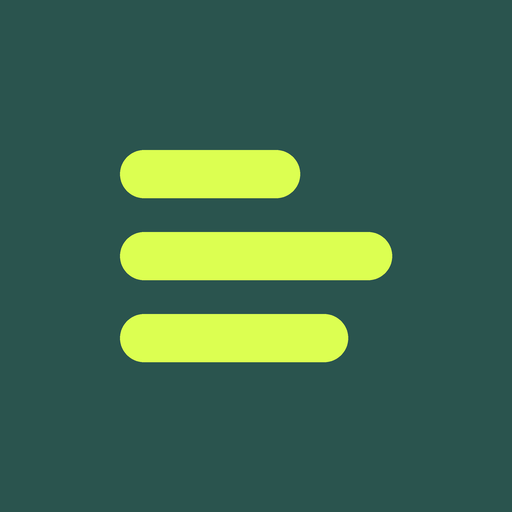
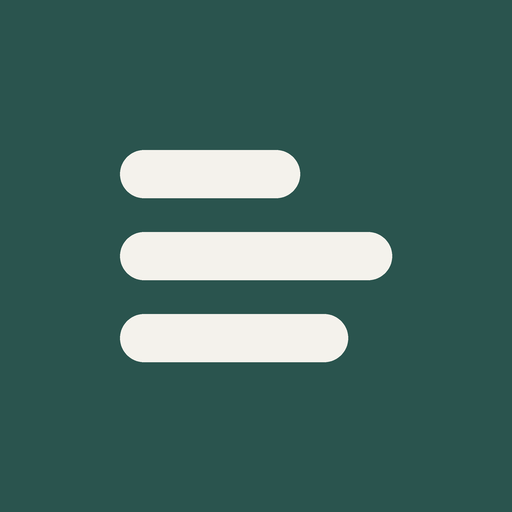
Drop tagline, smaller headlines, grey instead of lime accents

Changed region(s): [[0.2188, 0.4375, 0.7812, 0.5625], [0.2188, 0.5938, 0.6875, 0.7188], [0.2188, 0.2812, 0.5938, 0.4062]]

diff --git a/style.css b/style.css
@@ -22,8 +22,8 @@
   font-weight: 700; font-style: normal; font-display: swap;
 }
 
-/* Colours: newsprint and ink, with the Fairphone 6 Forest Green
-   (#2a544e) and its lime switch accent (#dcff51). */
+/* Colours: newsprint and ink, with the Fairphone 6 Forest Green (#2a544e).
+   Dark mode uses the phone's darker frame green with plain grey accents. */
 :root {
   --paper: #f4f2ec;
   --ink: #16211e;
@@ -31,7 +31,7 @@
   --line: #cfd3cb;
   --rule: #16211e;
   --accent: #2a544e;
-  --on-accent: #dcff51;
+  --on-accent: #f4f2ec;
   --star: #2a544e;
   --star-off: #c8cdc5;
   --bar: rgb(244 242 236 / .9);
@@ -47,9 +47,9 @@
     --muted: #93a29c;
     --line: #2a3d38;
     --rule: #c5ccc4;
-    --accent: #d4f25a;
+    --accent: #c4c9c6;
     --on-accent: #0f1c19;
-    --star: #d4f25a;
+    --star: #c4c9c6;
     --star-off: #344a44;
     --bar: rgb(15 28 25 / .9);
     color-scheme: dark;
@@ -86,7 +86,7 @@ button:disabled { opacity: .2; cursor: default; }
 a { color: inherit; }
 
 /* Small uppercase labels, as in a newspaper. */
-.tagline, .sub, .kind, .open, .author, .weekdays, .pill, .read-toggle {
+.sub, .kind, .open, .author, .weekdays, .pill, .read-toggle {
   text-transform: uppercase;
   letter-spacing: .12em;
 }
@@ -99,16 +99,9 @@ a { color: inherit; }
   padding: calc(18px + env(safe-area-inset-top)) 16px 0;
   text-align: center;
 }
-.tagline {
-  margin: 0;
-  padding-bottom: 8px;
-  border-bottom: 1px solid var(--rule);
-  font-size: .66rem;
-  color: var(--muted);
-}
 .flag {
   margin: 0;
-  padding: 10px 0 6px;
+  padding: 4px 0 8px;
   font: 700 clamp(2.6rem, 13vw, 3.6rem)/1 "Redaction 10", var(--serif);
   letter-spacing: -.01em;
 }
@@ -217,8 +210,8 @@ main {
 .title {
   margin: 6px 0;
   font-weight: 700;
-  font-size: 1.85rem;
-  line-height: 1.08;
+  font-size: 1.6rem;
+  line-height: 1.1;
   letter-spacing: -.01em;
   text-wrap: balance;
 }

diff --git a/index.html b/index.html
@@ -21,7 +21,6 @@
 </head>
 <body>
   <header class="masthead">
-    <p class="tagline">One poem · One essay · One story</p>
     <h1 class="flag">The Bradbury</h1>
   </header>
 

diff --git a/README.md b/README.md
@@ -37,7 +37,7 @@ Without a token everything still works, but ticks and ratings stay only in that 
 
 ## Design
 
-Set in [Redaction](https://www.redaction.us/) by MCKL (Forest Young and Jeremy Mickel) for Titus Kaphar and Reginald Dwayne Betts, used under the SIL Open Font License ([`fonts/OFL.txt`](fonts/OFL.txt)). The masthead uses the slightly worn "Redaction 10" grade. The colours are newsprint and ink with the Fairphone 6 Forest Green (`#2a544e`), and in dark mode its lime accent (`#dcff51`).
+Set in [Redaction](https://www.redaction.us/) by MCKL (Forest Young and Jeremy Mickel) for Titus Kaphar and Reginald Dwayne Betts, used under the SIL Open Font License ([`fonts/OFL.txt`](fonts/OFL.txt)). The masthead uses the slightly worn "Redaction 10" grade. The colours are newsprint and ink with the Fairphone 6 Forest Green (`#2a544e`); dark mode uses the phone's darker frame green with grey accents.
 
 ## Local preview
 
